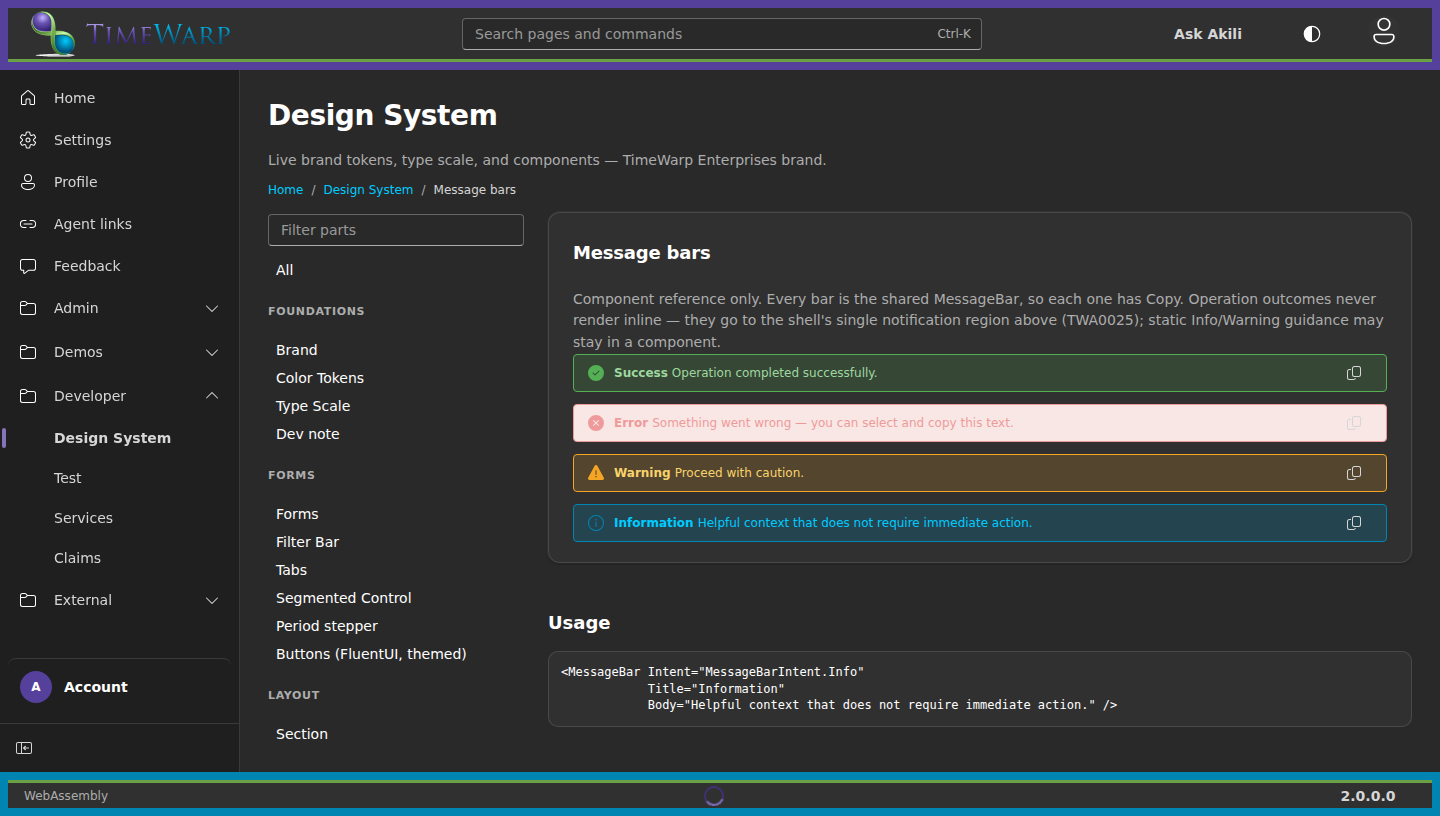
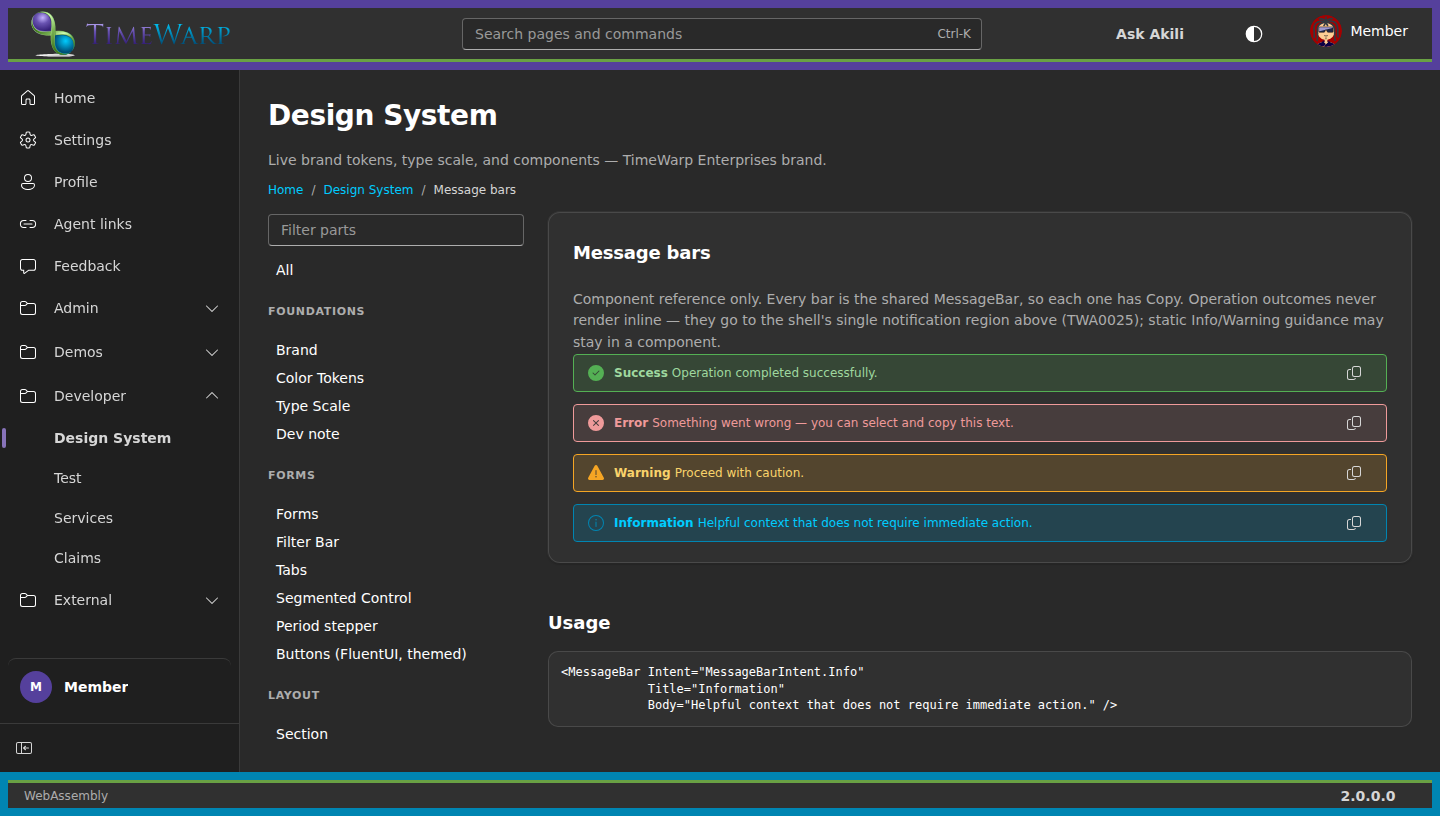
fix: recompute the dark error tint from the dark danger color
The error fill lived only on the light root, so dark mode kept a near-white pink under the light danger text. The dark theme mixes its own danger into its paper at 12 percent, which keeps that text at 4.5:1.

Task: 495

diff --git a/source/container-apps/web/projects/web-spa/wwwroot/css/tokens.css b/source/container-apps/web/projects/web-spa/wwwroot/css/tokens.css
@@ -55,7 +55,10 @@
   --twe-on-info: var(--twe-blue-deep);
 
   /* Status tints: badge and message-bar fills under the on-* text above.
-     Danger has no separate light hex. 12% into paper is the error badge fill. */
+     Danger has no separate light hex. 12% into paper is the error badge fill.
+     The dark block re-declares every tint, including --twe-danger-tint.
+     color-mix resolves var() on the element that declares the property, so a
+     tint left only on :root stays this light pink in dark mode. */
   --twe-positive-tint: #e5f7ec;
   --twe-warning-tint: #fef3c7;
   --twe-info-tint: #e6f4fa;
@@ -238,6 +241,8 @@ body[data-theme="dark"] {
   --twe-positive-tint: color-mix(in srgb, var(--twe-positive) 18%, var(--twe-paper));
   --twe-warning-tint: color-mix(in srgb, var(--twe-warning) 18%, var(--twe-paper));
   --twe-info-tint: color-mix(in srgb, var(--twe-blue) 24%, var(--twe-paper));
+  /* 12%, not 18%: the error text is --twe-danger itself, and 18% falls under 4.5:1. */
+  --twe-danger-tint: color-mix(in srgb, var(--twe-danger) 12%, var(--twe-paper));
 
   --twe-link: var(--twe-blue-bright);
   --twe-link-hover: var(--twe-blue-bright);

diff --git a/tests/container-apps/web/web-spa-integration-tests/components/dark-danger-tint-tests.cs b/tests/container-apps/web/web-spa-integration-tests/components/dark-danger-tint-tests.cs
@@ -1,0 +1,79 @@
+#region Purpose
+// The dark theme re-declares --twe-danger-tint. color-mix resolves on the element that
+// declares the property, so a tint that exists only on :root stays the light pink.
+#endregion
+
+#region Design
+// tokens.css is the source. The dark block is the body[data-theme="dark"] rule. Both
+// the light root and that block declare the same 12% mix. 18% of dark danger into dark
+// paper drops the error text under 4.5:1, so the percentage is part of the assertion.
+#endregion
+
+namespace DarkDangerTint_;
+
+[TestTag("Unit")]
+public class DarkDangerTint_Should_
+{
+  private const string DangerTint =
+    "--twe-danger-tint: color-mix(in srgb, var(--twe-danger) 12%, var(--twe-paper));";
+
+  [System.Runtime.CompilerServices.ModuleInitializer]
+  internal static void Register() => RegisterTests<DarkDangerTint_Should_>();
+
+  public static Task Declare_The_Danger_Tint_On_The_Dark_Theme()
+  {
+    string tokens = File.ReadAllText(Path.Combine(
+      RepoRoot(),
+      "source/container-apps/web/projects/web-spa/wwwroot/css/tokens.css"));
+
+    int count = 0;
+    int index = 0;
+    while ((index = tokens.IndexOf(DangerTint, index, StringComparison.Ordinal)) >= 0)
+    {
+      count++;
+      index += DangerTint.Length;
+    }
+
+    count.ShouldBe(2);
+    DarkBlock(tokens).ShouldContain(DangerTint);
+    return Task.CompletedTask;
+  }
+
+  private static string DarkBlock(string tokens)
+  {
+    const string marker = "body[data-theme=\"dark\"]";
+    int start = tokens.IndexOf(marker, StringComparison.Ordinal);
+    start.ShouldBeGreaterThanOrEqualTo(0);
+    int open = tokens.IndexOf('{', start, StringComparison.Ordinal);
+    int depth = 0;
+    for (int i = open; i < tokens.Length; i++)
+    {
+      if (tokens[i] == '{')
+      {
+        depth++;
+      }
+      else if (tokens[i] == '}')
+      {
+        depth--;
+        if (depth == 0)
+        {
+          return tokens[open..(i + 1)];
+        }
+      }
+    }
+
+    return string.Empty;
+  }
+
+  private static string RepoRoot()
+  {
+    string? directory = AppContext.BaseDirectory;
+    while (directory is not null && !File.Exists(Path.Combine(directory, "timewarp-architecture.slnx")))
+    {
+      directory = Path.GetDirectoryName(directory);
+    }
+
+    directory.ShouldNotBeNull();
+    return directory;
+  }
+}

diff --git a/kanban/in-progress/495-design-system-review-fixes-message-bar-status-badges-light-shell-type-scale-color-tokens/task.md b/kanban/in-progress/495-design-system-review-fixes-message-bar-status-badges-light-shell-type-scale-color-tokens/task.md
@@ -14,7 +14,11 @@ real text, with one shared eyebrow style for the catalog headings and the KPI la
 chips should stay visible when the token matches the card, and each chip should show the value
 the current theme resolves. Changing design-system part should scroll the content pane back to
 the top. The parts list should be only as tall as the space left in the viewport, so the last
-group is not trapped under the footer.
+group is not trapped under the footer. The error tint has to be declared again on the
+dark theme. A custom property mixes its colors where it is declared, so a tint that
+lives only on the light root stays a light pink in dark mode. Dark mode mixes the dark
+danger color into the dark paper, and the error message bar and every error badge use
+that dark fill under the light danger text.
 
 ## Description
 
@@ -130,22 +134,28 @@ and 07-catalog-clipped are referenced but missing from assets/; capture them in 
 - [x] 6. Reset scroll on part change
 - [x] 7. Parts list fits the viewport
 - [x] Recapture `assets/` after the fix, light and dark
+- [x] Dark error tint mixes the dark danger color into dark paper (message bar and error badge)
 
 ## Session
 
 - Created: ses_e1ad8b2d9ffezBxYfyQnvzq5g7 (2026-11-16)
 - Implementer: the seven review fixes are in the shared components, the app frame, and the design-system page (2026-11-24).
 - Implement oracle: implemented by implementer-grok (grok, vendor xai, model grok-4.7, response model grok-4.7-build), session 01a20976-2419-79a1-bfa6-899c0bf1ec52, max-turns 500, Done — 2026-11-23T18:23:51Z
+- Review oracle round 1: general reviewer, effort 2 (by-diff, turn cap 120), Claude Code claude-opus-5-5, 2026-11-24. 1 open bug (M1, dark `--twe-danger-tint`); fix pass requested. Files: `review/review-framework.md`, `review/round-1/general.md`, `review/round-1/merged.md`.
+- Review oracle: review by reviewer-claude (claude, vendor anthropic, model claude-opus-5-5, response model claude-opus-5-5), session fbf4715a-fc03-45c7-b72c-3e9d0eda85e0, max-turns 120, artifacts general.md, merged.md — 2026-11-23T18:26:14Z
+- Fix pass (review round 1 M1): `--twe-danger-tint` is declared again on `body[data-theme="dark"]` at 12% of the dark danger into dark paper. 18% falls under 4.5:1 because the error text is the danger color itself (2026-11-24).
 
 ## Results
 
 Message bars use the status tint tokens, info is the info blue, and Copy sits on the title row. The Lost sample is gone; the error sample is labeled Churned. The Member label uses the app-bar ink, and nav items rest transparent in both themes. Type-scale rows use the same role classes as the real components, and the eyebrow is the KPI style (11px, weight 600, 0.06em, uppercase). Color chips show the computed color for the current theme, with a stronger border so Background and Paper stay visible, plus positive, warning, and info swatches. Changing the design-system part resets the shell content scroller to the top. The parts list height is the space left in the viewport. After shots, light and dark, are in `assets/08-after-*.png`. The before shots stay.
 
+Review round 1 M1: the dark theme re-declares `--twe-danger-tint` as 12% of `--twe-danger` into `--twe-paper`. The error message bar and the Error and Churned badges use that dark fill under the light danger text. `assets/08-after-message-bars-dark.png` is the recaptured dark message-bar shot. `assets/08-after-status-badges-dark.png` is the dark badge check.
+
 ### How to validate
 
 Smoke: sign in as a developer and open `/DesignSystem` at 1440×816. Switch light and dark. Scroll the All page, then open Status Badges. Open Message bars, Type Scale, and Color Tokens.
 
-Expect: message bars are tinted, info is blue, and Copy is on the same row as the text. Status badges show Churned and do not show Lost. Member is readable on the app bar, and nav items have no resting fill. Type rows match the role (page title 700/28px, helper 400/12px, eyebrow 600/11px uppercase). Color chips print a resolved `rgb(...)` that changes with the theme, and Paper stays visible on the card. The content scroller is at the top after the part change. The parts list ends above the footer and scrolls on its own to Identity.
+Expect: message bars are tinted, info is blue, and Copy is on the same row as the text. Status badges show Churned and do not show Lost. In dark mode the error bar and the Error and Churned badges are a dark red fill under light pink text. Member is readable on the app bar, and nav items have no resting fill. Type rows match the role (page title 700/28px, helper 400/12px, eyebrow 600/11px uppercase). Color chips print a resolved `rgb(...)` that changes with the theme, and Paper stays visible on the card. The content scroller is at the top after the part change. The parts list ends above the footer and scrolls on its own to Identity.
 
 Gates:
 
@@ -154,6 +164,26 @@ Gates:
 - `tests/container-apps/web/web-spa-integration-tests/features/design-system/design-system-page-contract-tests.cs` — not a standalone Jaribu runfile (no `#if !JARIBU_MULTI`). `cd tests/container-apps/web/web-spa-integration-tests && dotnet test -c Release --no-build --no-restore -- --filter-class DesignSystemPage_Should_` — passed 6/6.
 - Browser, in-proc host, 1440×816, light and dark: catalog stays above the footer and Identity is reachable inside the list; content `scrollTop` returns to 0 on Status Badges; Churned badge; message-bar tints with inline Copy; type roles; color values including dark paper `rgb(48, 48, 48)`; Member ink on the app bar and transparent nav rest. The temporary Playwright method used for that pass was removed. CI runs the project suites.
 - `ganda repo audit` — exit 0. 43 passed, 2 skipped, 1 advisory warning: `vscode-window-icon` (`.vscode/settings.json` is missing; gitignored local state, pre-existing). `analyzer-suppressions` passed: 843 suppressions, none above the baseline.
+
+Fix pass (M1), after the dark tint edit:
+
+- `./bin/dev build` — succeeded, 0 warnings, 0 errors (10.60s), after the one-shot browser class was removed.
+- `tests/container-apps/web/web-spa-integration-tests/components/dark-danger-tint-tests.cs` — not a standalone Jaribu runfile (no `#if !JARIBU_MULTI`). `cd tests/container-apps/web/web-spa-integration-tests && dotnet test -c Release --no-build --no-restore -- --filter-class DarkDangerTint_Should_` — passed 1/1.
+- `tests/container-apps/web/web-spa-integration-tests/components/shell-breakpoint-tests.cs` — not a standalone runfile. Same invocation with `--filter-class ShellBreakpoints_Should_` — passed 1/1. It reads `tokens.css`.
+- `tests/container-apps/web/web-spa-integration-tests/configuration/brand-options-tests.cs` — not a standalone runfile. Same invocation with `--filter-class BrandOptions_Should_` — passed 7/7. It reads `tokens.css`.
+- Browser, in-proc host, 1440×816, stored dark mode, signed in as a developer: `/DesignSystem/message-bars` error bar and `/DesignSystem/status-badges` Error and Churned badges. Painted fill `color(srgb 0.278118 0.238118 0.238118)`, text `rgb(239, 154, 154)`, luminance 0.050, contrast 4.89. The temporary Playwright class was removed after the shots were copied. CI runs the project suites.
+- `ganda repo audit` — exit 0. 43 passed, 2 skipped, 1 failed as an advisory warning: `vscode-window-icon` (`.vscode/settings.json` is missing; gitignored local state, pre-existing). `analyzer-suppressions` passed: 843 suppressions, none above the baseline.
+
+### Review
+
+- Round 1 (general, effort 2): 1 bug open, 0 suggestions, 0 nits. M1: `--twe-danger-tint` is
+  declared only on `:root`, so dark mode keeps the light pink fill for the error message bar
+  and error badges. Fixed on this pass: the dark block re-declares the 12% mix. See
+  `review/round-1/merged.md`. Round 2 has not run.
+
+## Review
+
+- Round 1: M1 fixed on this pass. Round 2 has not run.
 
 ## Notes
 

diff --git a/kanban/in-progress/495-design-system-review-fixes-message-bar-status-badges-light-shell-type-scale-color-tokens/review/round-1/general.md b/kanban/in-progress/495-design-system-review-fixes-message-bar-status-badges-light-shell-type-scale-color-tokens/review/round-1/general.md
@@ -1,0 +1,56 @@
+# Round 1 — general
+**Date:** 2026-11-24
+**Scope reviewed:** `master...task/495-design-system-review-fixes-message-bar-status` (product diff under `source/` and `tests/`, task.md Results and How to validate, after screenshots in `assets/08-after-*.png`)
+
+## Summary
+
+The change covers all seven approved items. Message bars get a `display: contents` anchor that
+rebinds Fluent's intent tokens to the `--twe-*` status tints and default to SingleLine. The Lost
+sample becomes Churned, with snippet and tests updated. The app bar and Profile label take
+`--twe-ink`, and the nav rest fill is transparent in both themes. Shared `twe-type-*` role
+classes in `tokens.css` now drive both the real components and the Type Scale rows, with the KPI
+eyebrow chosen as the single eyebrow. Color chips get a stronger ring, a computed value line, and
+three status swatches. A small on-demand JS module resets the shell scroller on part change and
+reads computed token colors. The catalog height is the viewport space left at page top.
+
+The goal restatement matches the task. The recorded gates (build 0/0, StatusBadge 3/3,
+DesignSystemPage 6/6, audit exit 0, browser pass in both themes) cover the change. One
+regression: the new `--twe-danger-tint` token is declared only on `:root`, so in dark mode it
+keeps the light-theme value. The implementer's own dark screenshot shows it.
+
+## Issues
+
+### Issue 1 — Severity: bug
+- File: source/container-apps/web/projects/web-spa/wwwroot/css/tokens.css:62 (also the dark block at 220–258, StatusBadge.razor.css:407, MessageBar.razor.css:107–112)
+- Description: `--twe-danger-tint: color-mix(in srgb, var(--twe-danger) 12%, var(--twe-paper))`
+  is declared on `:root` only. A custom property substitutes its `var()` references on the
+  element that declares it, so `<html>` computes it from the light `--twe-danger` (#c2342a) and
+  light `--twe-paper` (#ffffff). `body[data-theme="dark"]` overrides `--twe-danger` and
+  `--twe-paper` but not the tint, so body descendants inherit the light pink fill. The dark
+  block already re-declares the positive, warning, and info tints for this reason, and the
+  comment at tokens.css:219 says the same about `--twe-scrim`. Result in dark: the error
+  message bar and every `twe-badge--error` badge are a near-white pink fill under light-pink
+  `--twe-danger` (#ef9a9a) text, which is unreadable. Before this change the badge rule did the
+  `color-mix` inline, so it resolved per element and dark was correct; this is a regression for
+  the badge, not only a new-bar defect. `assets/08-after-message-bars-dark.png` shows the Error
+  bar as a light pink box with faded pink text and a faded Copy icon.
+- Suggestion: re-declare `--twe-danger-tint: color-mix(in srgb, var(--twe-danger) 12%, var(--twe-paper));`
+  in the `body[data-theme="dark"]` block, next to the other three tints (12% keeps the
+  "clears 4.5:1 on a 12% tint" note at tokens.css:218 true). Update the comment at
+  tokens.css:87–88 so it says the dark block re-declares it. Recapture
+  `08-after-message-bars-dark.png` and check a dark error badge (Status Badges part) reads.
+- Status: open
+
+## Checked and not raised
+
+- MessageBar wrapper div: no other stylesheet or test selects `fluent-message-bar` as a direct
+  child of `.twe-message-bars`; `display: contents` keeps the flex column intact.
+- `BaseComponent` does not override `OnAfterRenderAsync`, so the new override on
+  `DesignSystemPage` drops nothing.
+- Type roles: the isolated rules now set only margins, so `tokens.css` role classes are not
+  fought by scoped CSS. `.twe-page__description` keeps its muted color, and `twe-type-body`
+  sets no color by design.
+- `DesignSystemPageJsModule` placement follows the existing `services/*-js-module.cs` +
+  `source/features/*.ts` pattern; both callers carry `[DirectComponentSideEffect]`.
+- Catalog `max-height` is a hand sum of the header stack. It is commented and unset below the
+  879px breakpoint; not raised.

diff --git a/kanban/in-progress/495-design-system-review-fixes-message-bar-status-badges-light-shell-type-scale-color-tokens/review/review-framework.md b/kanban/in-progress/495-design-system-review-fixes-message-bar-status-badges-light-shell-type-scale-color-tokens/review/review-framework.md
@@ -1,0 +1,33 @@
+# Review framework
+
+## Budget (by-diff)
+
+- Lines changed: 747
+- Effort: 2
+- TCB hits: none
+- Roster axes: general
+- Turn cap: 120 (--max-turns; cursor uncapped)
+
+# Review framework — task 495
+
+**Date:** 2026-11-24
+**Host task:** kanban/in-progress/495-design-system-review-fixes-message-bar-status-badges-light-shell-type-scale-color-tokens/
+**Diff scope:** branch `task/495-design-system-review-fixes-message-bar-status` vs `master` (merge base), product paths under `source/` and `tests/`, plus the kitchen `task.md` and `assets/`
+**Plan / brief:** task.md items 1–7 (message bar tints and inline actions, drop Lost pill, light shell Member label and nav rest fill, type-scale roles and one eyebrow, color-token chips with resolved values, scroll reset on part change, parts list fits viewport)
+**Effort:** 2 (by-diff budget), roster axis general
+**Reviewer roster:** general
+**Session IDs:** review oracle, Claude Code (claude-opus-5-5), ganda task-work review node
+
+## Ground rules
+
+- Reviewers are read-only on product code; they write only under `review/round-N/`
+- Severity: bug | suggestion | nit — Status starts as open
+- Do not invent issues to fill space; zero issues is a valid outcome
+- Address the diff and surrounding call sites; re-verify falsifiable claims by reading
+  the diff and the kitchen `## Results` and `### How to validate` record
+- Do not re-run a full build, a full test run, an audit, or the hooks; those belong to
+  the implementer's recorded results, the host audit node, and CI
+- Exception: one targeted command may check one suspected bug; the finding names the
+  command and the reason. A full build, full test run, or audit is never that command
+- A missing or thin recorded result is a finding, not a reason to run the gates
+- Prior rounds are immutable; new work goes in `round-(N+1)/`

diff --git a/kanban/in-progress/495-design-system-review-fixes-message-bar-status-badges-light-shell-type-scale-color-tokens/review/round-1/merged.md b/kanban/in-progress/495-design-system-review-fixes-message-bar-status-badges-light-shell-type-scale-color-tokens/review/round-1/merged.md
@@ -1,0 +1,30 @@
+# Round 1 — merged findings
+**Date:** 2026-11-24
+**Sources:** general
+
+## Counts
+
+| Severity | open | fixed | wontfix |
+|----------|------|-------|---------|
+| bug | 1 | 0 | 0 |
+| suggestion | 0 | 0 | 0 |
+| nit | 0 | 0 | 0 |
+
+## Issues
+
+### M1 — Severity: bug — Status: open
+- File: source/container-apps/web/projects/web-spa/wwwroot/css/tokens.css:62
+- Description: `--twe-danger-tint` is declared only on `:root`, so it is computed from the
+  light `--twe-danger` and `--twe-paper` and is not re-declared in `body[data-theme="dark"]`.
+  In dark mode the error message bar and every `twe-badge--error` badge get a near-white pink
+  fill under light-pink `#ef9a9a` text. The badge was correct in dark before this change (the
+  mix was inline in the badge rule). Visible in `assets/08-after-message-bars-dark.png`.
+- Suggestion: add `--twe-danger-tint: color-mix(in srgb, var(--twe-danger) 12%, var(--twe-paper));`
+  to the dark block beside the positive, warning, and info tints; update the tokens.css
+  comment; recapture the dark message-bar shot and check a dark error badge.
+- Source: general
+- Disposition notes:
+
+## Duplicates / conflicts
+
+- None.
